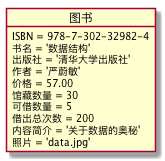
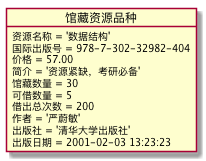
test3

Changed region(s): [[0.0, 0.0311, 0.9697, 0.9938], [0.303, 0.0621, 0.6667, 0.1553]]

diff --git a/test3/README.md b/test3/README.md
@@ -52,17 +52,25 @@ class 读者 {
     End of class
 }
 
-class 图书品种{
-    ID
-    ISBN
-    书名
-    语言
-    种类
+class 馆藏资源品种{
+    资源名称
+    国际出版号
+    价格
+    简介
+    馆藏数量
+    可借数量
+    借出总次数
+    作者
+    出版社
     出版日期
     --get 和 set--
     ...
     --
     End of class
+}
+class 资源项{
+    馆藏流水号
+    状态
 }
 class 图书{
     ID
@@ -71,9 +79,6 @@ class 图书{
     出版社
     作者
     价格
-    馆藏数量
-    可借数量
-    借出总次数
     内容简介
     照片
     --set和get--
@@ -85,7 +90,7 @@ class 图书{
 class 借书记录{
     ID
     ISBN
-    图书ID
+    馆藏流水号
     读者ID
     书名
     借书日期
@@ -102,7 +107,7 @@ class 借书记录{
 class 预定记录{
     ID
     ISBN
-    图书ID
+    预定记录号
     读者ID
     书名
     预定日期
@@ -118,7 +123,6 @@ class 预定记录{
 class 逾期记录{
     ID
     ISBN
-    图书ID
     读者ID
     书名
     逾期日期
@@ -134,7 +138,6 @@ class 逾期记录{
 class 罚款细则{
     ID
     读者ID
-    图书ID
     书名
     罚款原因
     罚款金额
@@ -158,11 +161,12 @@ class 罚款细则{
 读者 "1"-right-"n"预定记录:查询
 读者 "1"-down- "n"借书记录:查询
 读者 "1"-left- "0..1"逾期记录:查询
-读者 "1"-right- "n"图书:查询或借阅
+读者 "1"-right- "n"图书:查询
 游客 "1"-left- "n"图书:查询
-图书品种 "1"*-right- "n"图书:馆藏
-图书 "1"-down- "n"预定记录
-图书 "1"-right- "n"借书记录
+馆藏资源品种 "1"*-right- "n"图书:馆藏
+馆藏资源品种 "1" *- "n" 资源项 : 拥有
+馆藏资源品种 "1"-down- "n"预定记录
+馆藏资源品种 "1"-right- "n"借书记录
 逾期记录 "0..1"-down-"0..1"罚款细则:使用
 @enduml
 ```
@@ -248,40 +252,42 @@ object 超级管理员{
 ```
 #### 2.4.2类“超级管理员”的对象图如下
 ![object3_flow](object3_flow.jpg)
-#### 2.5类“图书”的对象图
-#### 2.5.1类“图书”的对象图代码如下
+#### 2.5类“馆藏资源品种”的对象图
+#### 2.5.1类“馆藏资源品种”的对象图代码如下
 ```
 @startuml
 
-object 图书{
-    ISBN = 978-7-302-32982-4
-    书名 = '数据结构'
-    出版社 = '清华大学出版社'
-    作者 = '严蔚敏'
+object 馆藏资源品种{
+    资源名称 = '数据结构'
+    国际出版号 = 978-7-302-32982-404
     价格 = 57.00
+    简介 = '资源紧缺，考研必备'
     馆藏数量 = 30
     可借数量 = 5
     借出总次数 = 200
-    内容简介 = '关于数据的奥秘'
-    照片 = 'data.jpg'
+    作者 = '严蔚敏'
+    出版社 = '清华大学出版社'
+    出版日期 = 2001-02-03 13:23:23
 }
 
 @enduml
 ```
-#### 2.5.2类“图书”的对象图如下
+#### 2.5.2类“馆藏资源品种”的对象图如下
 ![object4_flow](object4_flow.jpg)
 #### 2.6类“图书”的对象图
 #### 2.6.1类“图书”的对象图代码如下
 ```
 @startuml
 
-object 图书品种{
+object 图书{
     ID = 111111
     ISBN= 978-7-302-32982-4
     书名 = '数据结构'
-    语言 = '中文'
-    种类 = '计算机类'
-    出版日期= 2001-03-04 13:21:23
+    出版社 = '清华大学出版社'
+    作者 = '严蔚敏'
+    价格 = 57.00
+    简介 = '关于数据的奥秘'
+    照片 = '2333.jpg'
 
  }
 
@@ -295,9 +301,10 @@ object 图书品种{
 @startuml
 
 object 借书记录{
-    ID = 986754633
+    ID = 20098789
     ISBN = 978-7-302-32982-4
-    读者 = 201610414105
+    馆藏流水号 = 20181011
+    读者ID = 201610414105
     书名 = '数据结构'
     借书日期 = 2017-08-19 12:22:12
     归还日期 = 2018-09-19 09:22:12
@@ -319,8 +326,8 @@ object 借书记录{
 object 预定记录{
     ID = 986754633
     ISBN = 978-7-302-32982-4
+    预定记录号 = 20180909
     读者ID = 201610414105
-    图书ID = 111111
     书名 = '数据结构'
     预定日期 = '2018-09-22 13:21:21'
     取书日期 = '2018-11-22 15:23:12'
@@ -342,7 +349,6 @@ object 逾期记录{
     ID = 77656754
     ISBN = 978-7-302-32982-4
     读者ID = 201610414105
-    图书ID = 111111
     书名 = '数据结构'
     逾期日期 = 2017-08-19 11:22:11
     归还日期 = 2017-09-19 13:24:31 
@@ -365,7 +371,6 @@ object 罚款细则{
     ID = 7765074
     ISBN = 978-7-302-32982-4
     读者ID = 201610414105
-    图书ID = 111111
     书名 = '数据结构'
     罚款原因 = '借书逾期30天'
     罚款金额 = '30元' 
@@ -379,6 +384,22 @@ object 罚款细则{
 ```
 #### 2.10.2类“逾期记录”的对象图如下
 ![object9_flow](object9_flow.jpg)
+
+#### 2.11类“资源项”的对象图
+#### 2.10.1类“资源项”的对象图代码如下
+```
+@startuml
+
+object 资源项{
+  馆藏流水号 = 20181011
+  状态 = '借出'
+
+ }
+
+@enduml
+```
+#### 2.10.2类“资源项”的对象图如下
+![object11_flow](object11_flow.jpg)
 
 
 

diff --git a/test3/object4.md b/test3/object4.md
@@ -1,16 +1,16 @@
 @startuml
 
-object 图书{
-    ISBN = 978-7-302-32982-4
-    书名 = '数据结构'
-    出版社 = '清华大学出版社'
-    作者 = '严蔚敏'
+object 馆藏资源品种{
+    资源名称 = '数据结构'
+    国际出版号 = 978-7-302-32982-404
     价格 = 57.00
+    简介 = '资源紧缺，考研必备'
     馆藏数量 = 30
     可借数量 = 5
     借出总次数 = 200
-    内容简介 = '关于数据的奥秘'
-    照片 = 'data.jpg'
+    作者 = '严蔚敏'
+    出版社 = '清华大学出版社'
+    出版日期 = 2001-02-03 13:23:23
 }
 
 @enduml

diff --git a/test3/object5.md b/test3/object5.md
@@ -1,12 +1,14 @@
 @startuml
 
-object 图书品种{
+object 图书{
     ID = 111111
     ISBN= 978-7-302-32982-4
     书名 = '数据结构'
-    语言 = '中文'
-    种类 = '计算机类'
-    出版日期= 2001-03-04 13:21:23
+    出版社 = '清华大学出版社'
+    作者 = '严蔚敏'
+    价格 = 57.00
+    简介 = '关于数据的奥秘'
+    照片 = '2333.jpg'
 
  }
 

diff --git a/test3/object6.md b/test3/object6.md
@@ -1,9 +1,10 @@
 @startuml
 
 object 借书记录{
-    ID = 986754633
+    ID = 20098789
     ISBN = 978-7-302-32982-4
-    读者 = 201610414105
+    馆藏流水号 = 20181011
+    读者ID = 201610414105
     书名 = '数据结构'
     借书日期 = 2017-08-19 12:22:12
     归还日期 = 2018-09-19 09:22:12

diff --git a/test3/object7.md b/test3/object7.md
@@ -3,8 +3,8 @@
 object 预定记录{
     ID = 986754633
     ISBN = 978-7-302-32982-4
+    预定记录号 = 20180909
     读者ID = 201610414105
-    图书ID = 111111
     书名 = '数据结构'
     预定日期 = '2018-09-22 13:21:21'
     取书日期 = '2018-11-22 15:23:12'

diff --git a/test3/object8.md b/test3/object8.md
@@ -4,7 +4,6 @@ object 逾期记录{
     ID = 77656754
     ISBN = 978-7-302-32982-4
     读者ID = 201610414105
-    图书ID = 111111
     书名 = '数据结构'
     逾期日期 = 2017-08-19 11:22:11
     归还日期 = 2017-09-19 13:24:31 

diff --git a/test3/object9.md b/test3/object9.md
@@ -4,7 +4,6 @@ object 罚款细则{
     ID = 7765074
     ISBN = 978-7-302-32982-4
     读者ID = 201610414105
-    图书ID = 111111
     书名 = '数据结构'
     罚款原因 = '借书逾期30天'
     罚款金额 = '30元' 

diff --git a/test3/object11.md b/test3/object11.md
@@ -1,0 +1,9 @@
+@startuml
+
+object 资源项{
+  馆藏流水号 = 20181011
+  状态 = '借出'
+
+ }
+
+@enduml
